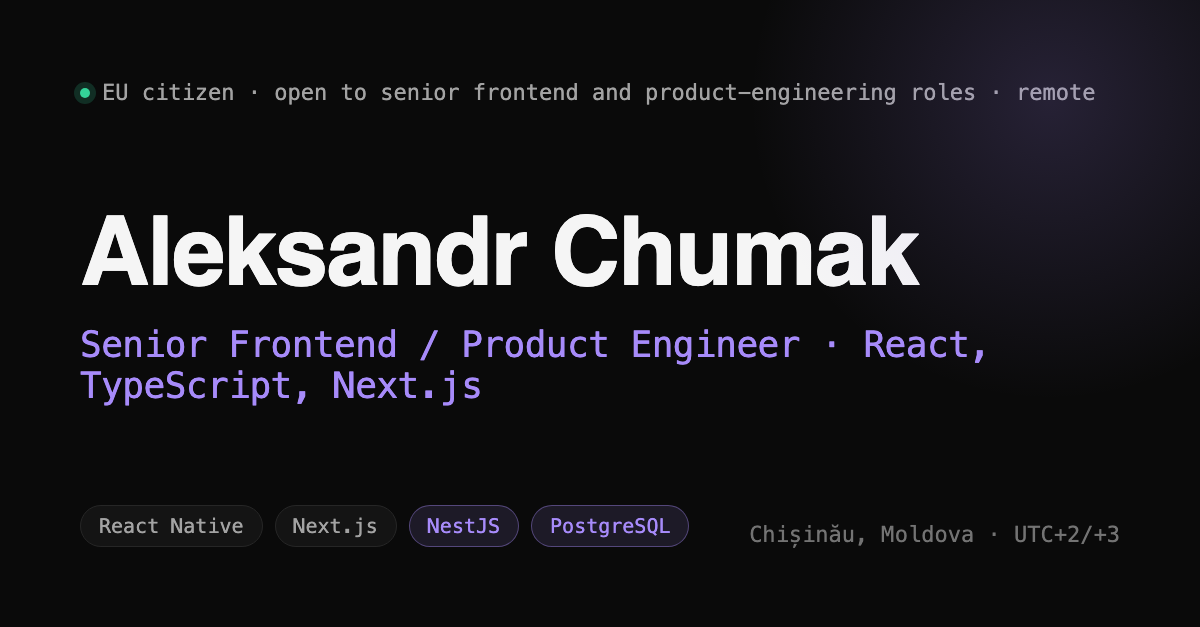
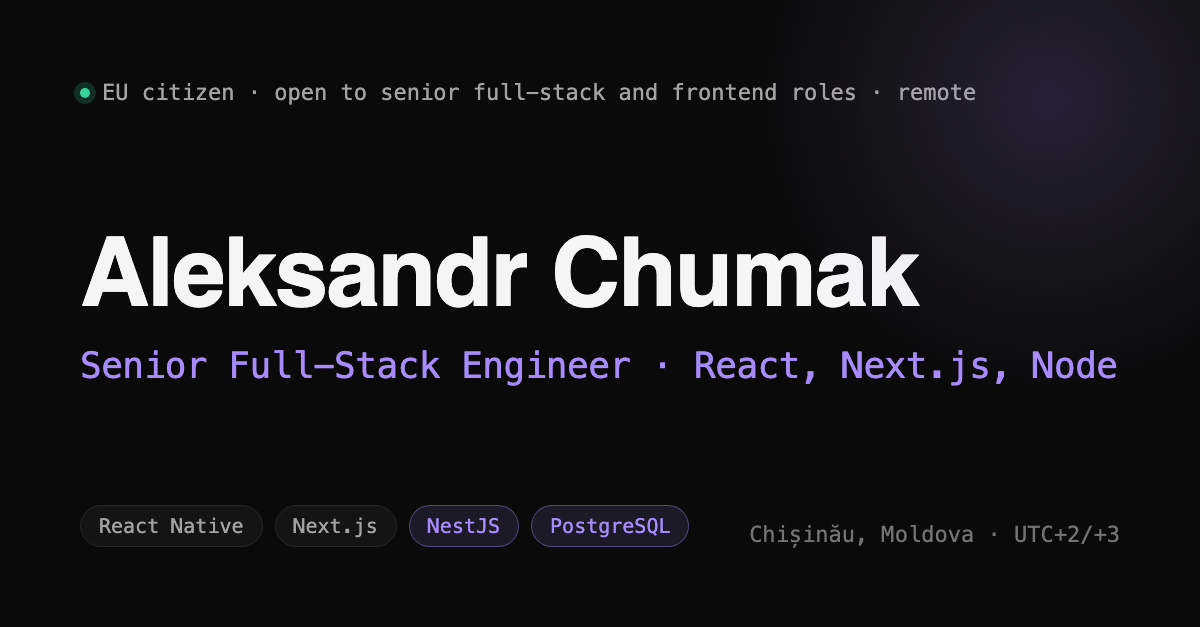
content: match the site title to the LinkedIn headline, fix the years
The LinkedIn headline became "Senior Full-Stack Engineer" on 2026-11-13, so
the site, llms.txt, the OG card and the GitHub profile README said something
else than the profile a recruiter arrives from.

- role: "Senior Frontend / Product Engineer" -> "Senior Full-Stack Engineer"
- hero stack: add Node, so the title is not a frontend-only list
- commercial experience: 6+ -> 7+ years, continuous since Aug 2019
- llms.txt: name the Senior title held from Jan 2025, and open to full-stack
- experience: Multisoft (Jan-Aug 2026) was a Senior Frontend Developer role.
  The EVCARGO entry keeps its plain title: it spans Junior to Senior.
- og.png rebuilt from og.html

cv.md and the master CV in career-ops carry the same title and summary.

diff --git a/src/data/hero.ts b/src/data/hero.ts
@@ -4,17 +4,17 @@ import type { HeroData } from '../types'
 export const hero: HeroData = {
   name: { ru: 'Александр Чумак', en: 'Aleksandr Chumak' },
   role: {
-    ru: 'Senior Frontend / Product-инженер',
-    en: 'Senior Frontend / Product Engineer',
+    ru: 'Senior Full-Stack инженер',
+    en: 'Senior Full-Stack Engineer',
   },
   stack: {
-    ru: 'React · TypeScript · Next.js · React Native',
-    en: 'React · TypeScript · Next.js · React Native',
+    ru: 'React · TypeScript · Next.js · Node · React Native',
+    en: 'React · TypeScript · Next.js · Node · React Native',
   },
   // Two sentences: the cards below carry the detail.
   pitch: {
-    ru: '6+ лет в продакшене: веб и мобильные продукты на React и React Native. Свои продукты довожу до релиза: Rivella работает в продакшене, Prosvetum опубликован в App Store.',
-    en: '6+ years shipping production web and mobile software in React and React Native. I take my own products all the way to release: Rivella runs in production and Prosvetum is on the App Store.',
+    ru: '7+ лет в продакшене: веб и мобильные продукты на React и React Native. Свои продукты довожу до релиза: Rivella работает в продакшене, Prosvetum опубликован в App Store.',
+    en: '7+ years shipping production web and mobile software in React and React Native. I take my own products all the way to release: Rivella runs in production and Prosvetum is on the App Store.',
   },
   location: {
     ru: 'Кишинёв, Молдова · UTC+2/+3',
@@ -26,7 +26,7 @@ export const hero: HeroData = {
     en: 'Remote, on‑site in Chișinău, or relocation within the EU · Available immediately',
   },
   proof: [
-    { ru: '6+ лет в продакшене', en: '6+ years in production' },
+    { ru: '7+ лет в продакшене', en: '7+ years in production' },
     { ru: '5 лет на EVCARGO', en: '5 years on EVCARGO' },
     { ru: 'AI-продукт в продакшене', en: 'AI product in production' },
     {

diff --git a/index.html b/index.html
@@ -10,23 +10,23 @@
     <meta name="theme-color" content="#0a0a0a" />
     <meta
       name="description"
-      content="Senior Frontend / Product Engineer with 6+ years in React, TypeScript and Next.js. Production CRMs for logistics and restaurants, React Native, and my own AI products taken from idea to release."
+      content="Senior Full-Stack Engineer with 7+ years in React, TypeScript and Next.js. Production CRMs for logistics and restaurants, React Native, and my own AI products taken from idea to release."
     />
     <meta property="og:type" content="profile" />
     <meta property="og:url" content="https://chumak.is-a.dev/" />
     <link rel="canonical" href="https://chumak.is-a.dev/" />
     <meta
       property="og:title"
-      content="Aleksandr Chumak — Senior Frontend / Product Engineer"
+      content="Aleksandr Chumak — Senior Full-Stack Engineer"
     />
     <meta
       property="og:description"
-      content="Senior Frontend / Product Engineer with 6+ years in React, TypeScript and Next.js. Production CRMs for logistics and restaurants, React Native, and my own AI products taken from idea to release."
+      content="Senior Full-Stack Engineer with 7+ years in React, TypeScript and Next.js. Production CRMs for logistics and restaurants, React Native, and my own AI products taken from idea to release."
     />
     <meta property="og:image" content="https://chumak.is-a.dev/og.png" />
     <meta name="twitter:card" content="summary_large_image" />
     <meta name="twitter:image" content="https://chumak.is-a.dev/og.png" />
-    <title>Aleksandr Chumak — Senior Frontend / Product Engineer</title>
+    <title>Aleksandr Chumak — Senior Full-Stack Engineer</title>
     <script type="application/ld+json">
       {
         "@context": "https://schema.org",
@@ -37,7 +37,7 @@
           "Alexandr Ciumac",
           "Александр Чумак"
         ],
-        "jobTitle": "Senior Frontend / Product Engineer",
+        "jobTitle": "Senior Full-Stack Engineer",
         "url": "https://chumak.is-a.dev",
         "email": "mailto:chumak.aleksandr96@gmail.com",
         "address": {

diff --git a/scripts/og.html b/scripts/og.html
@@ -128,15 +128,15 @@
     <div class="top">
       <span class="dot"></span>
       <span
-        >EU citizen &middot; open to senior frontend and product-engineering
-        roles &middot; remote</span
+        >EU citizen &middot; open to senior full-stack and frontend roles &middot;
+        remote</span
       >
     </div>
 
     <div>
       <h1>Aleksandr Chumak</h1>
       <div class="role">
-        Senior Frontend / Product Engineer &middot; React, TypeScript, Next.js
+        Senior Full-Stack Engineer &middot; React, Next.js, Node
       </div>
     </div>
 

diff --git a/src/data/experience.ts b/src/data/experience.ts
@@ -8,8 +8,8 @@ export const experience: ExperienceItem[] = [
     company: { ru: 'TeamArt — Multisoft', en: 'TeamArt — Multisoft' },
     location: { ru: 'Удалённо', en: 'Remote' },
     role: {
-      ru: 'Frontend-разработчик',
-      en: 'Frontend Developer',
+      ru: 'Senior Frontend-разработчик',
+      en: 'Senior Frontend Developer',
     },
     period: { ru: '01.2026 — 08.2026', en: 'Jan 2026 — Aug 2026' },
     description: {

diff --git a/scripts/cv-ai.html b/scripts/cv-ai.html
@@ -34,7 +34,7 @@
 
     <h2>Summary</h2>
     <p class="summary">
-      Senior Product Engineer with 6+ years in production React, TypeScript and
+      Senior Product Engineer with 7+ years in production React, TypeScript and
       Next.js, working from the interface down through the API, the data model
       and the deployment pipeline. Built and deployed Rivella on my own: a
       multi-tenant AI booking assistant running in production, where an agent
